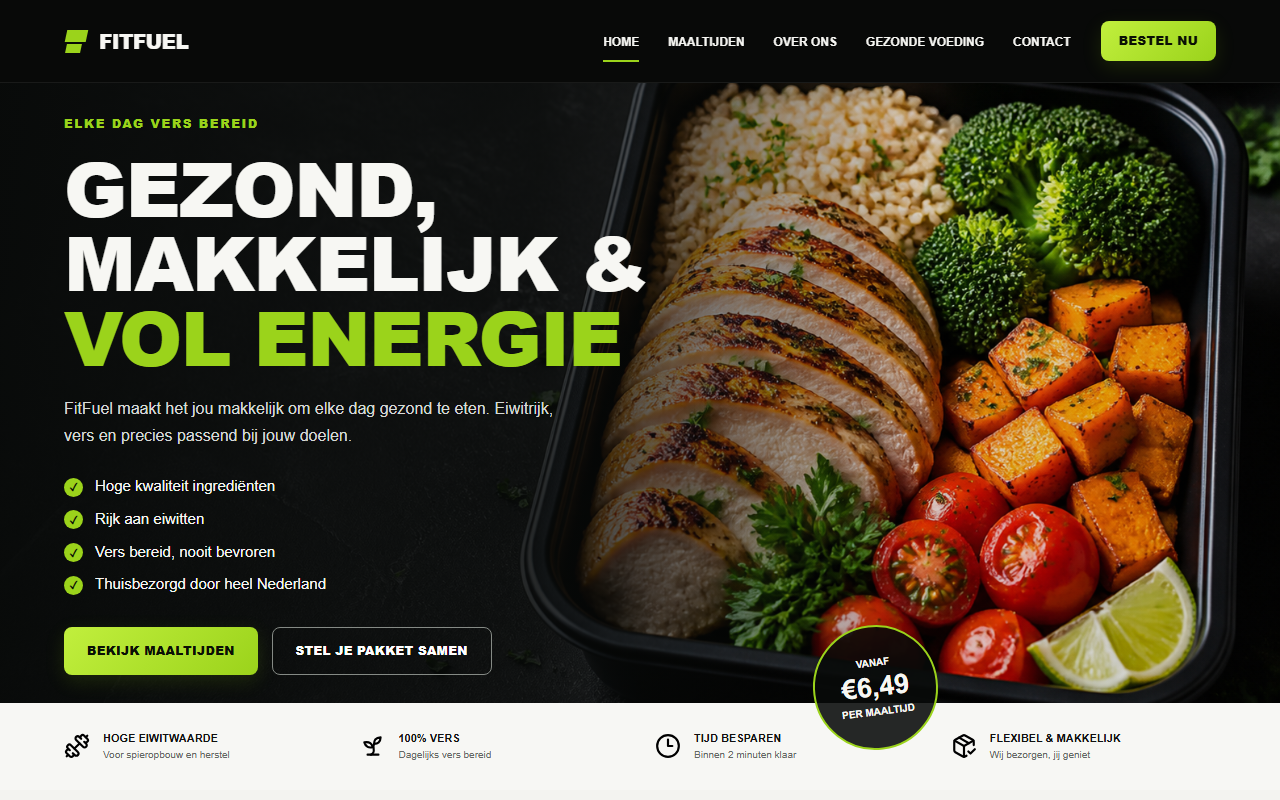
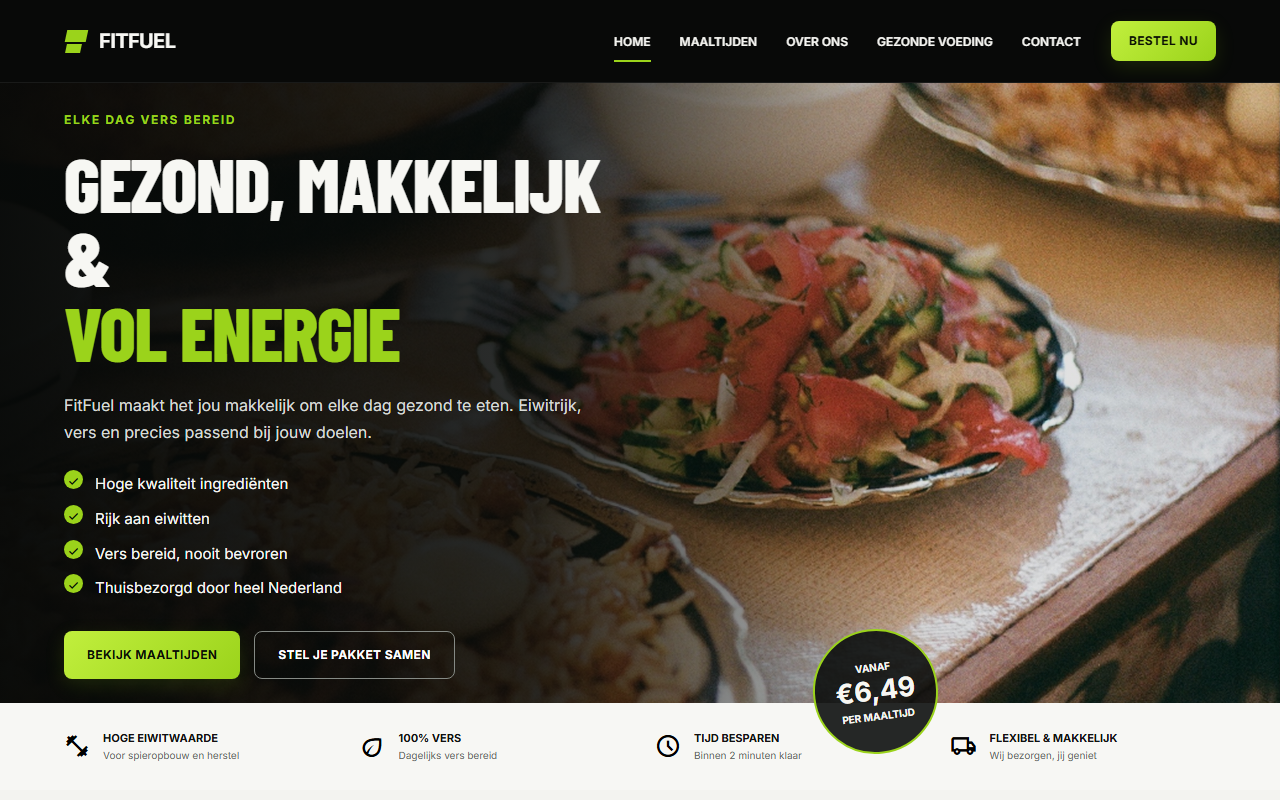
de foto's van de nova en fitfuel website vervangen bij de projecten sectie en in de header de menu items wat meer spacing gegeven

diff --git a/style.css b/style.css
@@ -78,17 +78,22 @@ header nav h2 a:hover{
     object-fit: contain;
 }
 .navbar-collapse .navbar-nav{
-    width: 70%;
+    width: auto;
     height: 100%;
     display: flex;
-    justify-content: space-around;
+    justify-content: flex-end;
     align-items: center;
+    gap: clamp(18px, 1.8vw, 34px);
     list-style-type: none;
+}
+.navbar-collapse .navbar-nav .nav-item{
+    flex-shrink: 0;
 }
 .navbar-collapse .navbar-nav .nav-item a{
     text-decoration: none;
     color: white;
     font-size: 16px;
+    white-space: nowrap;
 }
 .navbar-collapse .navbar-nav .nav-item a:hover{
     color: #00C6FF;
